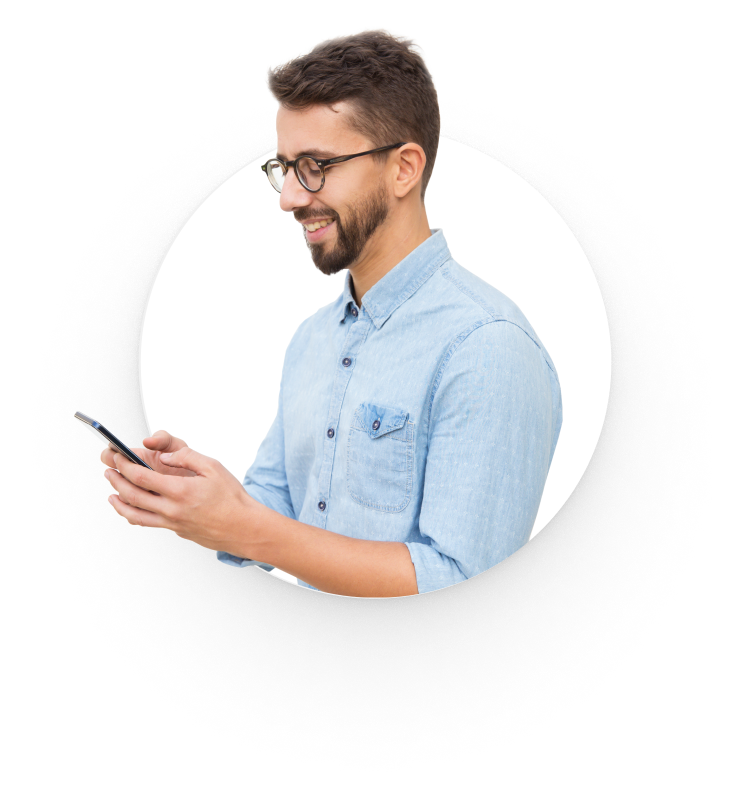
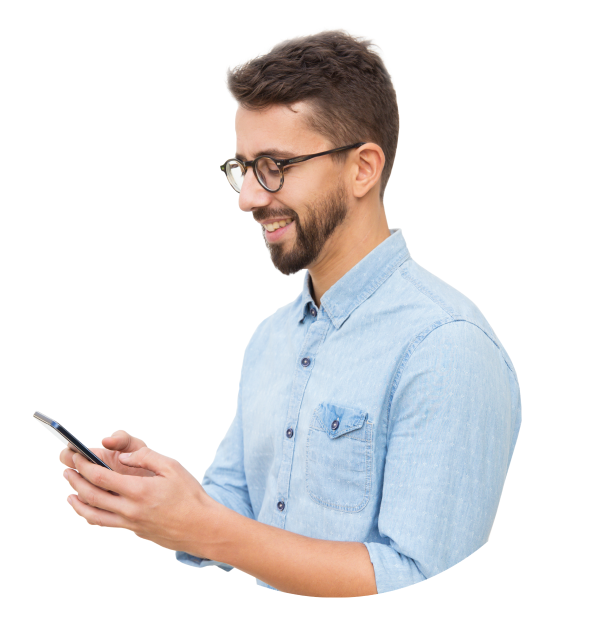
service section added

diff --git a/css/style.css b/css/style.css
@@ -2,6 +2,8 @@
 @import url('https://fonts.googleapis.com/css2?family=Arimo:wght@400;500;600;700&display=swap');
 
 
+/* color var */
+
 :root{
     --primary:#FF6600;
     --heading-text:#0B1B35;
@@ -14,11 +16,14 @@
 *{
     margin: 0;
     padding: 0;
-    box-sizing: border-box;
-    
+    box-sizing: border-box;  
 }
 body{
     font-family: 'Arimo', sans-serif;
+}
+main{
+    display: flex;
+    justify-content: center;
 }
 .container{
     max-width: 1170px;
@@ -81,7 +86,7 @@ align-items: center;
     text-decoration: none;
 }
 
-/* dou header area css */
+/* doun header area css */
 
 /* header tex area css */
 .doun-header{
@@ -123,21 +128,19 @@ align-items: center;
     position: relative;
 }
 .header-image .mane{
-    width: 606px;
-    height: 618px;
+    width: 100%;
 }
 .header-image .shape {
-    width: 552px;
-    height: 294px;
+    width: 100%;
     z-index: -1;
     position: absolute;
-    top: 65px;
-    right: 54px;
+    top: 90px;
+    right: 33px;
 }
 .busi-gro{
     position: absolute;
-    top: 35px;
-    left: -23px;
+    top: 60px;
+    left: -21px;
     z-index: -1;
     width: 257px;
     height: 73px;
@@ -176,8 +179,8 @@ align-items: center;
 
 .happy-clint{
     position: absolute;
-    left: -105px;
-    bottom: 220px;
+    left: -117px;
+    bottom: 97px;
     width: 217px;
     height: 73px;
     border-radius: 12px;
@@ -191,3 +194,75 @@ align-items: center;
     color: var(--secend);
 }
 
+/* service section css */
+
+.sec-title-small{
+    font-size: 14px;
+    line-height: 28px;
+    font-weight: bold;
+    color: var(--drak-light);
+    letter-spacing: 0.45em;
+    text-align: center;
+    font-weight: bold;
+}
+.section-title{
+    font-weight: bold;
+    font-size: 52px;
+    line-height: 28px;
+    color: var(--heading-text);
+    text-align: center;
+    margin-top: 19px;
+}
+.service-section{
+    margin-top: 82px;
+}
+.services{
+    margin-top: 108px;
+    display: grid;
+    grid-template-columns: repeat(3, 1fr);
+    grid-column-gap: 57px;
+}
+.service{
+    position: relative;
+    width: 352px;
+    height: 508px;
+    padding: 30px;
+    border-radius: 28px;
+    box-shadow: 0px 100px 80px rgba(0, 0, 0, 0.07), 0px 41.7776px 33.4221px rgba(0, 0, 0, 0.0503198), 0px 22.3363px 17.869px rgba(0, 0, 0, 0.0417275), 0px 12.5216px 10.0172px rgba(0, 0, 0, 0.035), 0px 6.6501px 5.32008px rgba(0, 0, 0, 0.0282725), 0px 2.76726px 2.21381px rgba(0, 0, 0, 0.0196802);
+}
+.service img{
+    width: 76px;
+    height: 76px;
+    position: absolute; 
+    left: 50%;
+    transform: translateX(-50%);
+
+}
+.service .video-icon{
+    height: 57px;
+}
+.service h2{
+    margin-top: 148px;
+    font-weight: bold;
+    font-size: 36px;
+    line-height: 28px;
+    color: var(--secend);
+}
+.service p{
+    font-size: 18px;
+    line-height: 28px;
+    text-align: center;
+    margin-top: 32px;
+    margin-bottom: 40px;
+}
+.learn-btn{
+    display: flex;
+    justify-content: center;
+}
+
+
+/* responsive css mobile devise */
+
+@media only  screen and (max-width:688px) {
+    
+}

diff --git a/index.html b/index.html
@@ -82,5 +82,31 @@
                 </div>
             </div>
     </header>
+    <main>
+        <section class="service-section container">
+            <h5 class="sec-title-small">SERVICE</h5>
+            <h1 class="section-title">Our Vison & Our Goal</h1>
+            <div class="services">
+                <div class="service">
+                    <img src="images/logo/gdicon.png" alt="">
+                    <h2>Graphic Design</h2>
+                    <p>Lorem ipsum dolor sit amet, consectetur adipiscing elit. Quisque dui mi, bibendum eu erat id, ultricies semper metus. Nunc dapibus laoreet dolor nec imperdiet.</p>
+                    <div class="learn-btn"><a class="btn " href="">Learn More</a></div>
+                </div>
+                <div class="service">
+                    <img class="video-icon" src="images/logo/Video.png" alt="">
+                    <h2>Graphic Design</h2>
+                    <p>Lorem ipsum dolor sit amet, consectetur adipiscing elit. Quisque dui mi, bibendum eu erat id, ultricies semper metus. Nunc dapibus laoreet dolor nec imperdiet.</p>
+                    <div class="learn-btn"><a class="btn " href="">Learn More</a></div>
+                </div>
+                <div class="service">
+                    <img src="images/logo/Chart.png" alt="">
+                    <h2>Graphic Design</h2>
+                    <p>Lorem ipsum dolor sit amet, consectetur adipiscing elit. Quisque dui mi, bibendum eu erat id, ultricies semper metus. Nunc dapibus laoreet dolor nec imperdiet.</p>
+                    <div class="learn-btn"><a class="btn " href="">Learn More</a></div>
+                </div>
+            </div>
+        </section>
+    </main>
 </body>
 </html>
